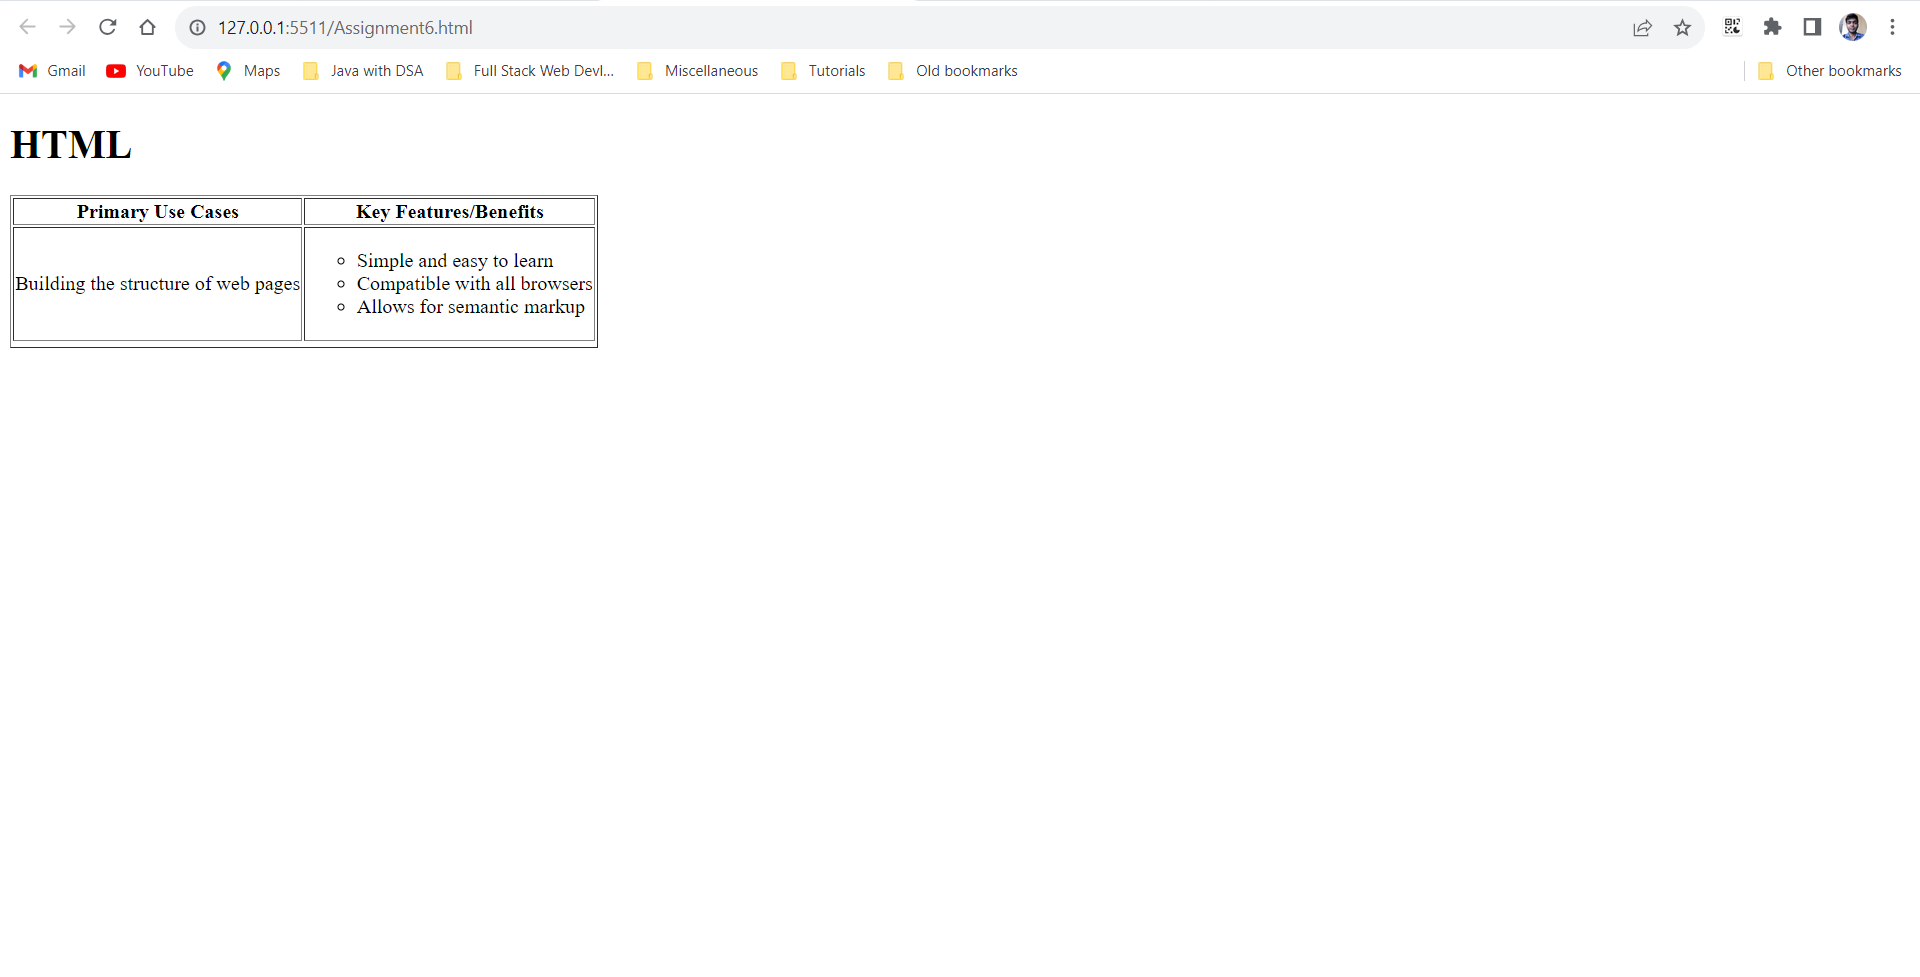
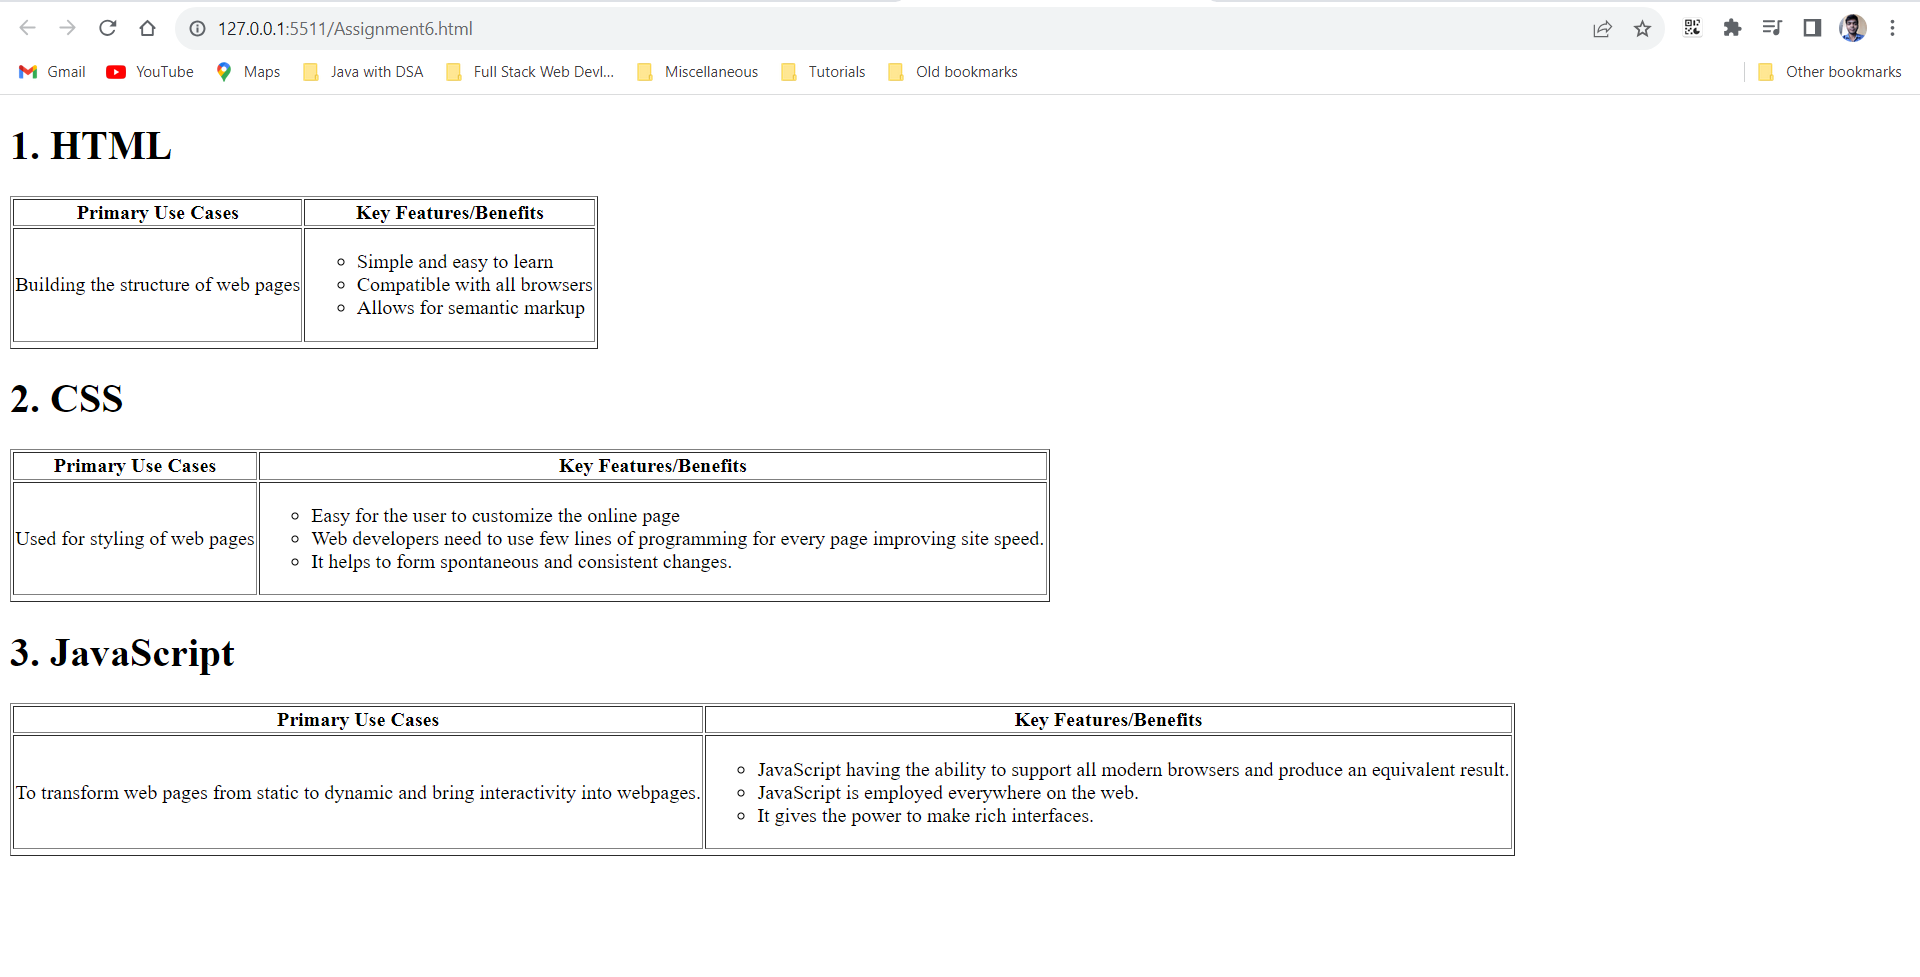
updated_Assignment-2_Core_HTML

diff --git a/Assignment6.html b/Assignment6.html
@@ -1,31 +1,82 @@
 <!DOCTYPE html>
 <html lang="en">
-<head>
-    <meta charset="UTF-8">
-    <meta name="viewport" content="width=device-width, initial-scale=1.0">
+  <head>
+    <meta charset="UTF-8" />
+    <meta name="viewport" content="width=device-width, initial-scale=1.0" />
     <title>Assignment-6</title>
-</head>
-<body>
-    <h1>HTML</h1>
+  </head>
+  <body>
+    <!-- Table for HTML Features and Benefits -->
+    <h1>1. HTML</h1>
     <table border="1">
-        <!-- First row for table headers -->
-        <tr>
-                <th>Primary Use Cases</th>
-                <th>Key Features/Benefits</th>
-        </tr>
-        <!-- Table content from second row onwards -->
-        <tr>
-            <td>Building the structure of web pages</td>
-            <td>
-                <ul style="list-style: circle;">
-                    <li>Simple and easy to learn</li>
-                    <li>Compatible with all browsers</li>
-                    <li>Allows for semantic markup</li>
-                </ul>
-            </td>
-        </tr>
-        <tr></tr>
-        <tr></tr>
+      <!-- First row for table headers -->
+      <tr>
+        <th>Primary Use Cases</th>
+        <th>Key Features/Benefits</th>
+      </tr>
+      <!-- Table content from second row onwards -->
+      <tr>
+        <td>Building the structure of web pages</td>
+        <td>
+          <ul style="list-style: circle">
+            <li>Simple and easy to learn</li>
+            <li>Compatible with all browsers</li>
+            <li>Allows for semantic markup</li>
+          </ul>
+        </td>
+      </tr>
+      <tr></tr>
+      <tr></tr>
     </table>
-</body>
+
+    <!-- Table for CSS Features and Benefits -->
+    <h1>2. CSS</h1>
+    <table border="1">
+      <!-- First row for table headers -->
+      <tr>
+        <th>Primary Use Cases</th>
+        <th>Key Features/Benefits</th>
+      </tr>
+      <!-- Table content from second row onwards -->
+      <tr>
+        <td>Used for styling of web pages</td>
+        <td>
+          <ul style="list-style: circle">
+            <li>Easy for the user to customize the online page</li>
+            <li>
+              Web developers need to use few lines of programming for every page
+              improving site speed.
+            </li>
+            <li>It helps to form spontaneous and consistent changes.</li>
+          </ul>
+        </td>
+      </tr>
+      <tr></tr>
+      <tr></tr>
+    </table>
+
+    <!-- Table for JavaScript Features and Benefits -->
+    <h1>3. JavaScript</h1>
+    <table border="1">
+      <!-- First row for table headers -->
+      <tr>
+        <th>Primary Use Cases</th>
+        <th>Key Features/Benefits</th>
+      </tr>
+      <!-- Table content from second row onwards -->
+      <tr>
+        <td>To transform web pages from static to dynamic and bring interactivity into webpages.</td>
+        <td>
+          <ul style="list-style: circle">
+            <li>JavaScript having the ability to support all modern browsers and produce an equivalent result.</li>
+            <li>JavaScript is employed everywhere on the web.</li>
+            <li>It gives the power to make rich interfaces.
+            </li>
+          </ul>
+        </td>
+      </tr>
+      <tr></tr>
+      <tr></tr>
+    </table>
+  </body>
 </html>
